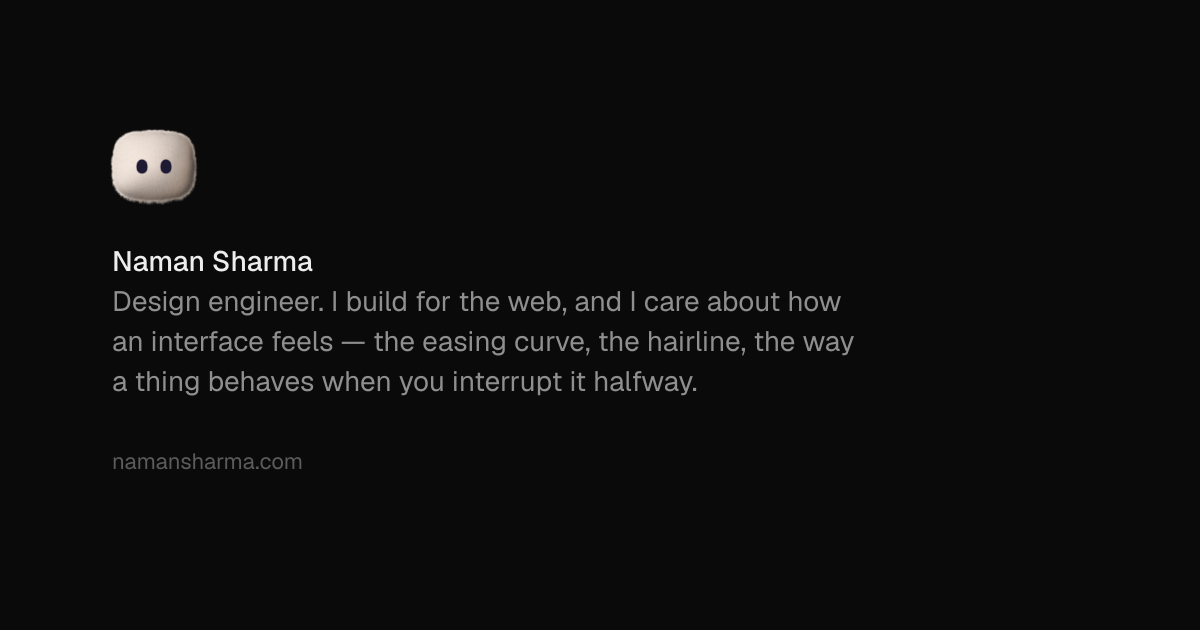
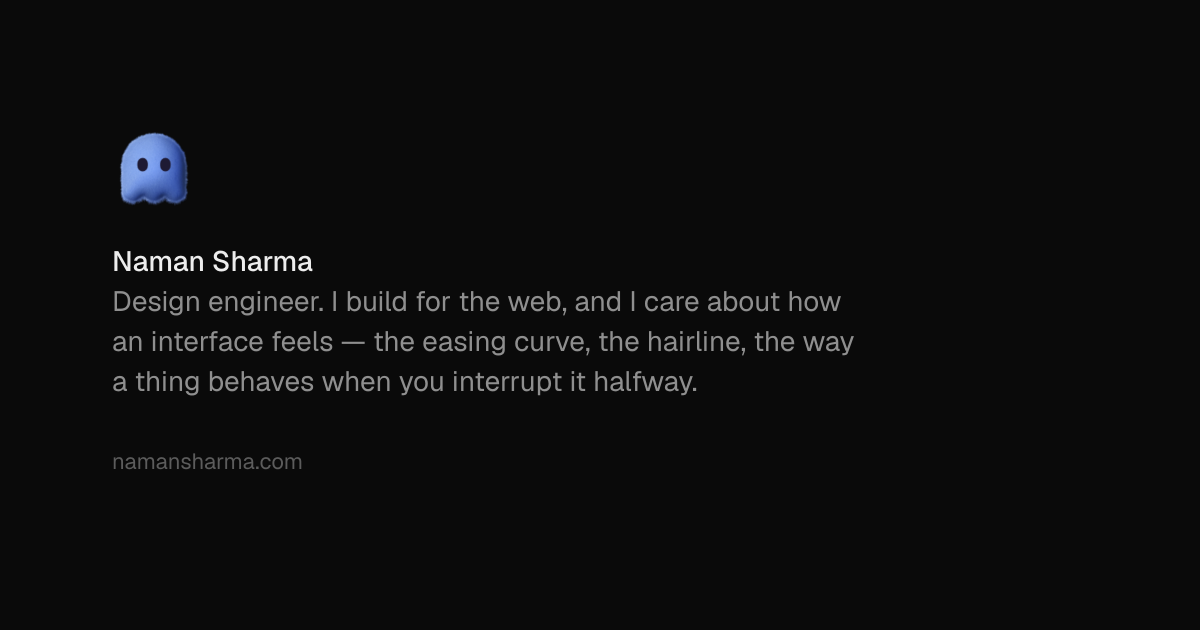
Mascot: a blue ghost
The library's own ghost outline in place of the custom marshmallow, on
the front page and asleep on the 404. The share image is re-rendered
with it, and the alt text and README follow.

Claude-Session: https://claude.ai/code/session_01Czehv7x3X4DFdC1efk1vQA

Changed region(s): [[0.0925, 0.181, 0.185, 0.3317]]

diff --git a/components/chapters/Pieces.tsx b/components/chapters/Pieces.tsx
@@ -9,20 +9,17 @@ import { SiGithub, SiX } from "@icons-pack/react-simple-icons";
 const EMAIL = "namansharmans03@gmail.com";
 
 /* ── the mark above the name ────────────────────────────────────────────
-   A marshmallow: a squat, puffy cylinder seen side-on, its top and bottom
-   bowed out and its sides soft, in powdered off-white. The square type only
-   places the face in the middle; the outline is our own. Hovering wakes it
-   into the working hop; a click makes it jump. The jump is kept low and
-   barely stretched: at the library's default (26 units up, full stretch)
-   the wide outline rose past the top of its canvas and was cut flat. */
-const MARSHMALLOW =
-  "M32 15C44 13 56 13 68 15C82 15.5 92 25 92 38C93.5 46 93.5 54 92 62C92 75 82 84.5 68 85C56 87 44 87 32 85C18 84.5 8 75 8 62C6.5 54 6.5 46 8 38C8 25 18 15.5 32 15Z";
-
+   A ghost, the library's own outline, in a cool soft blue. It was a cream
+   marshmallow; the ghost has more character for its size and is at its
+   best asleep on the 404. Hovering wakes it into the working hop; a click
+   makes it jump. The jump is kept low and barely stretched: at the
+   library's default (26 units up, full stretch) a wide outline rose past
+   the top of its canvas and was cut flat. */
 export function Mark({ sleeping = false }: { sleeping?: boolean }) {
   const [awake, setAwake] = React.useState(false);
   return (
     <span className="mark" onPointerEnter={() => setAwake(true)} onPointerLeave={() => setAwake(false)}>
-      <BotAvatar type="square" path={MARSHMALLOW} color="#8cb2ff" state={sleeping && !awake ? "sleeping" : awake ? "working" : "default"} size={64} jumpHeight={14} jumpStretch={0.6} aria-hidden="true" />
+      <BotAvatar type="ghost" color="#8cb2ff" state={sleeping && !awake ? "sleeping" : awake ? "working" : "default"} size={64} jumpHeight={14} jumpStretch={0.6} aria-hidden="true" />
     </span>
   );
 }

diff --git a/app/minimal.css b/app/minimal.css
@@ -98,7 +98,7 @@ body {
   .page .col { margin-left: 0; }
 }
 
-/* the 404's sleeping marshmallow, in the place the front page's sits */
+/* the 404's sleeping ghost, in the place the front page's sits */
 .page .mark-sleep { height: 64px; margin: 0 0 20px -6px; }
 .page .mark-sleep + .name { margin-top: 0; }
 .page .excerpt { display: -webkit-box; -webkit-line-clamp: 2; -webkit-box-orient: vertical; overflow: hidden; }

diff --git a/app/not-found.tsx b/app/not-found.tsx
@@ -1,7 +1,7 @@
 import Link from "next/link";
 import { Mark } from "@/components/chapters/Pieces";
 
-/** Nowhere: the marshmallow asleep, and two ways back. */
+/** Nowhere: the ghost asleep, and two ways back. */
 export default function NotFound() {
   return (
     <div className="page">

diff --git a/README.md b/README.md
@@ -11,7 +11,7 @@ A minimal, dark, one-screen-at-a-time front page and a blog, all in one design l
 | `/` | The front page, in four chapters: intro, work, craft, contact |
 | `/blog` | Notes and essays |
 | `/blog/[slug]` | A post, with a table of contents and read-aloud |
-| any other path | A 404, with the marshmallow asleep |
+| any other path | A 404, with the ghost asleep |
 
 ## The front page
 
@@ -20,7 +20,7 @@ A minimal, dark, one-screen-at-a-time front page and a blog, all in one design l
 - **Each chapter has an address**: `/#2` opens Work, `/#3` Craft, `/#4` Contact.
 - **Work is a deck of cards** ([Card stack](https://bencho.dev), MIT), one 3:4 screenshot per project. Reach it and it fans out; press a card and it comes out of the deck and turns over to be looked at. The words under the deck follow the card you are on.
 - **Craft shows the work on the work**: the same dialog before and after under a bending compare line, the finished dialog's measurements under a WebGL glass lens, and one design on a phone, a tablet and a desktop ([Aspect ratio](https://bencho.dev), MIT). On a desktop the three stand side by side and play by themselves until touched; narrower, they take turns.
-- **The marshmallow** above the name is a [`bot-avatars`](https://libraries.dev) avatar with a custom outline. It blinks, hops when you hover it and jumps when you click it.
+- **The ghost** above the name is a blue [`bot-avatars`](https://libraries.dev) avatar. It blinks, hops when you hover it and jumps when you click it.
 - **Connect on LinkedIn** carries a [`border-beam`](https://libraries.dev) pulse.
 - **The socials** in the corner are a [`liquid-gooey`](https://libraries.dev) menu: the buttons pour out of the + as liquid, settle as separate drops, and are pulled back in when it closes.
 - **Without JavaScript** the chapters stack into one readable page.
@@ -49,7 +49,7 @@ app/
 components/
   chapters/
     Chapters.tsx           chapter navigation: wheel, touch, keys, dots, addresses
-    Pieces.tsx             the marshmallow, the LinkedIn button, the gooey socials
+    Pieces.tsx             the ghost, the LinkedIn button, the gooey socials
     CardStack.tsx          Bencho's card stack, the deck itself
     WorkDeck.tsx           the work: the deck and the words that follow it
     chapters.css           the front page's styles, scoped under .front
